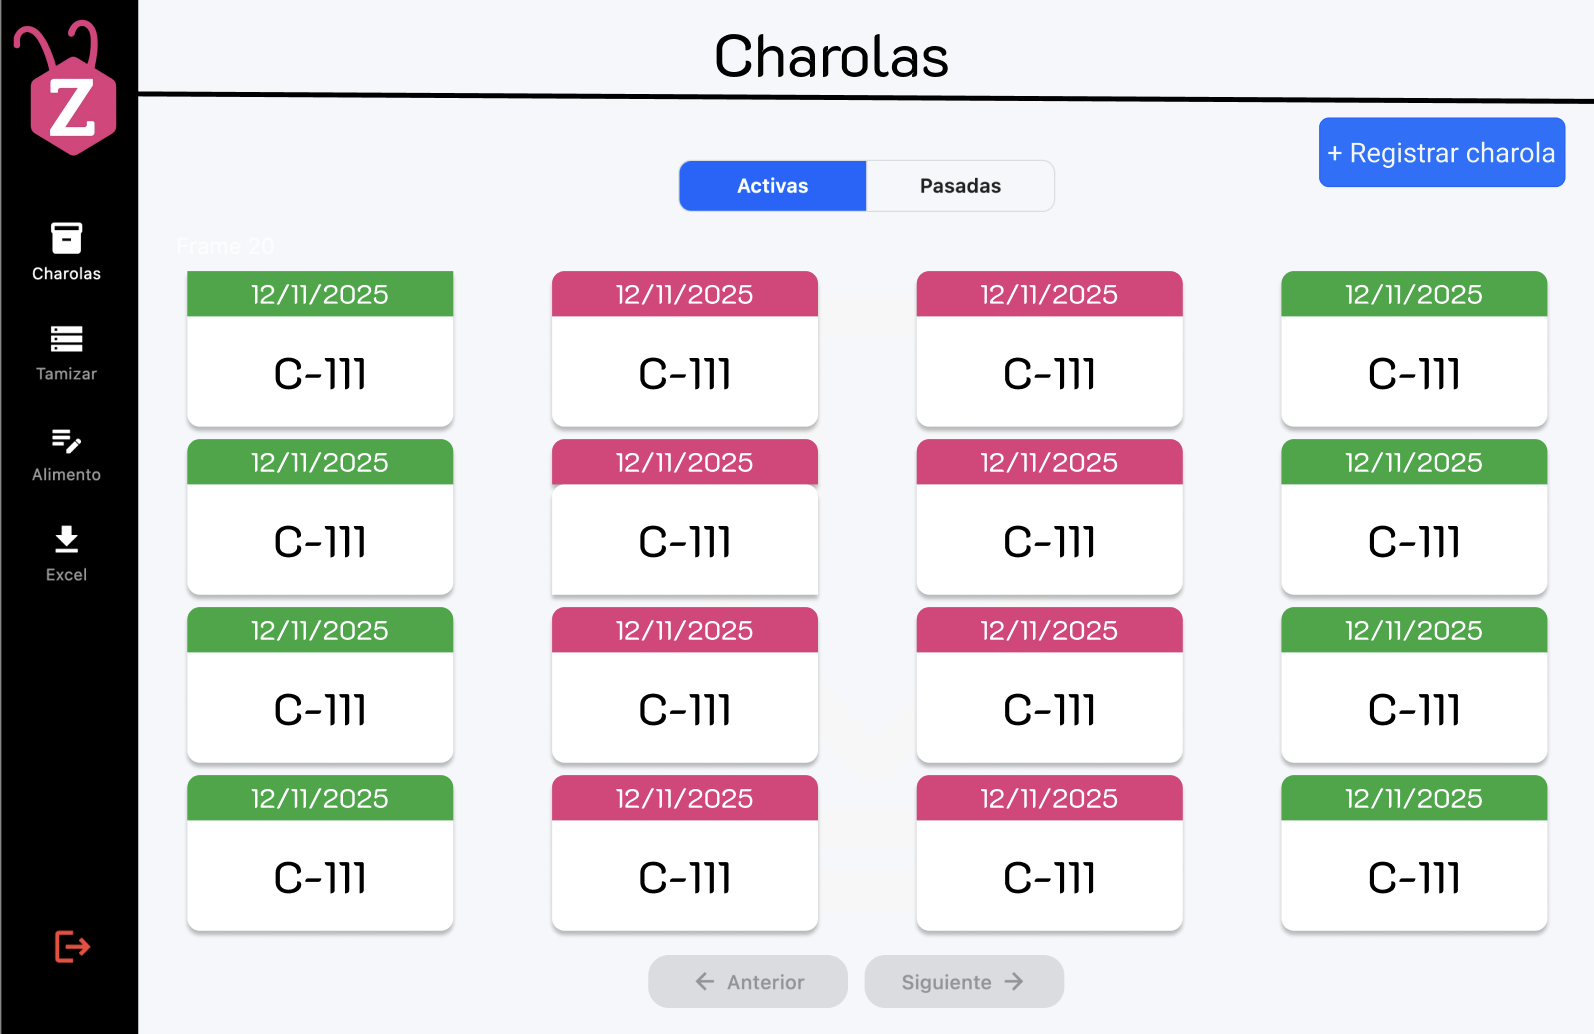
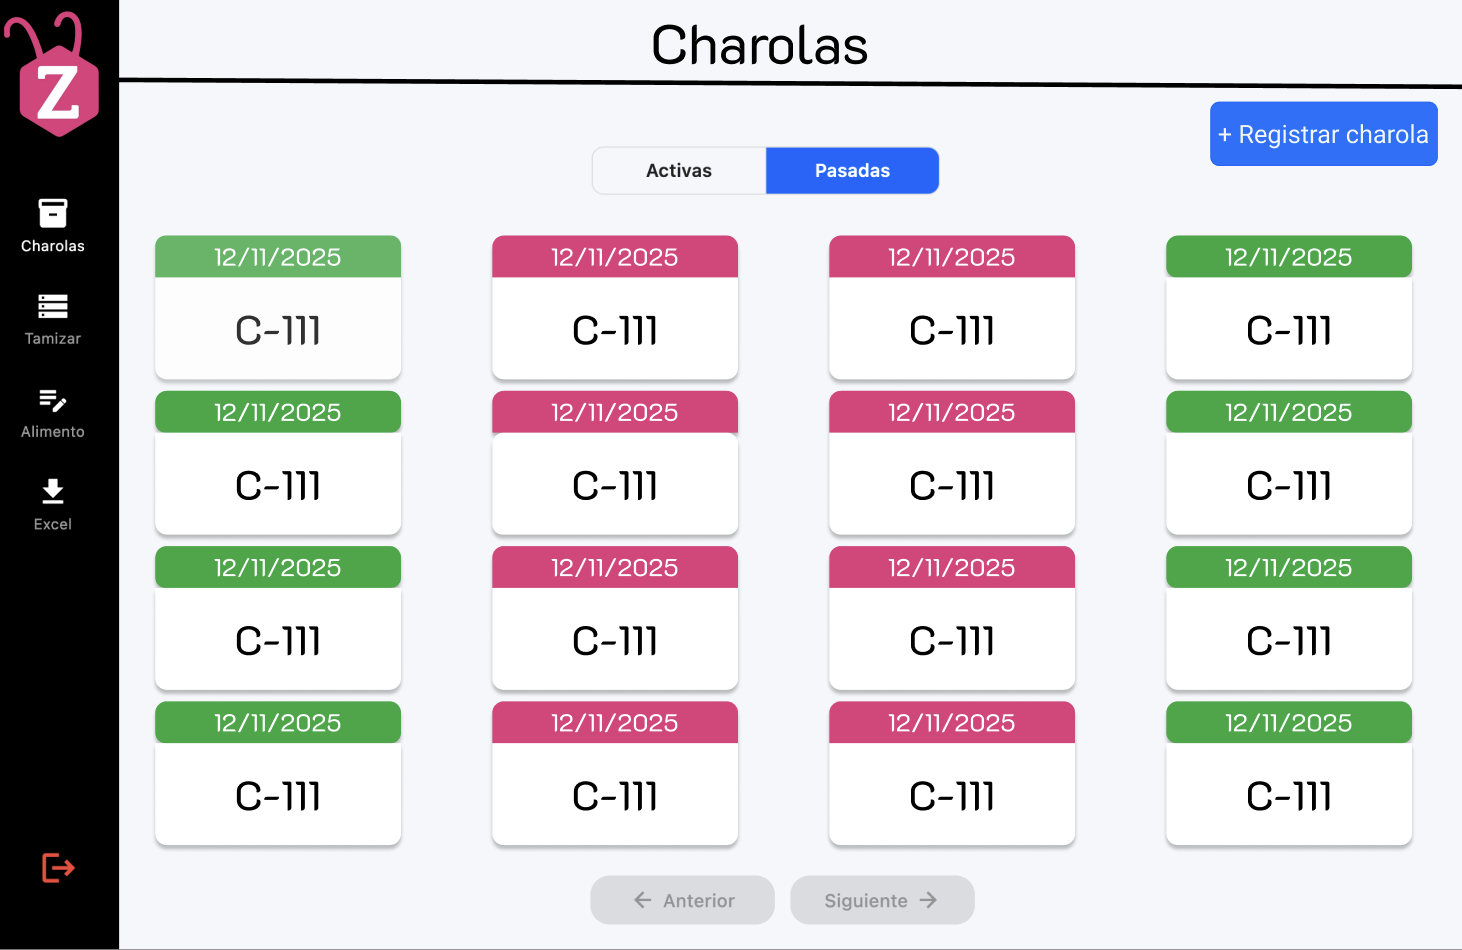
Corregir mockup

diff --git a/documentation/docs/proyectos/larvas/documentacion/requisitos/RF16.md b/documentation/docs/proyectos/larvas/documentacion/requisitos/RF16.md
@@ -10,7 +10,7 @@ Como usuario, quiero consultar todas las charolas registradas en el sistema, par
 
   **Criterios de Aceptación:**
   - El sistema debe mostrar una lista de todas las charolas registradas.
-  - La visualización debe ser clara y permitir una navegación fluida.
+  - Se permite visualizar las charolas a través de un scroll.
   - Los datos deben actualizarse en tiempo real conforme se registran nuevas charolas.
   - Debe estar paginada para tener un mayor control de la visualización de las charolas, la cantidad de tarjetas visibles por páginas es de 100 tarjetas.
   - Deben estar enumeradas las páginas para saber en que página se encuentra.
@@ -263,4 +263,5 @@ sequenceDiagram
 | **1.5**             | Diagramas de actividades   | 23/5/2025  | Juan Eduardo Rosas Cerón |
 | **1.6**             | Se corrigió mockup  | 29/5/2025  | Mariana Juárez |
 | **1.7**             | Se agregaron los pull request de front y back | 29/5/2025  | Sofía Osorio |
-| **2.0**             | Actualizar los criterios de aceptación | 2/5/2025  | Sofía Osorio |
+| **2.0**             | Actualizar los criterios de aceptación | 2/6/2025  | Sofía Osorio |
+| **2.1**             | Se modificó mockup | 2/6/2025  |  Mariana Juárez |
